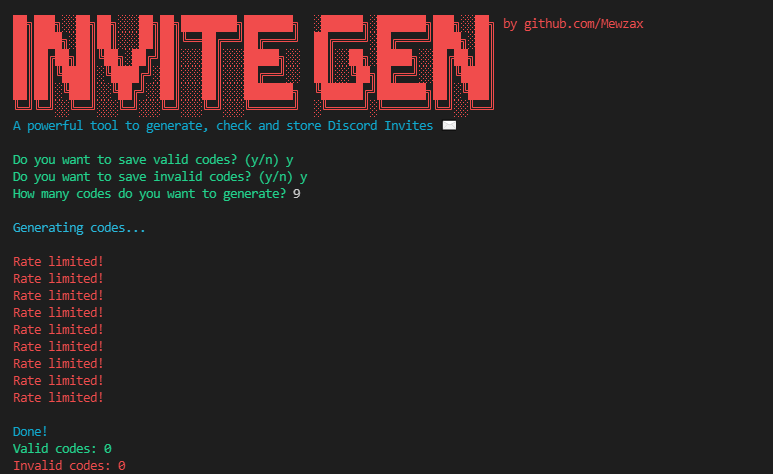
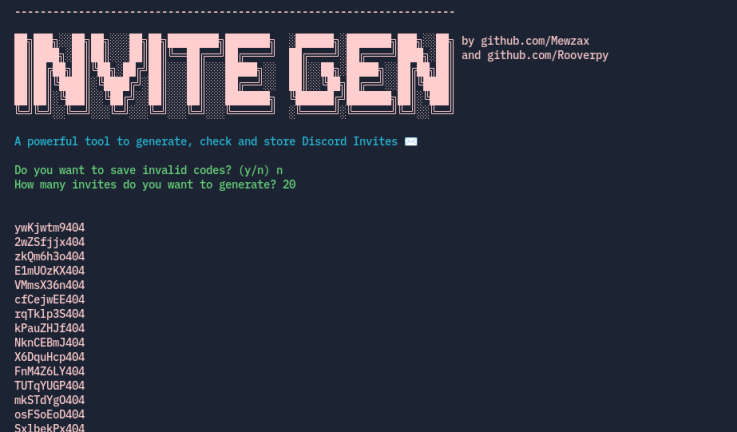
faster (thx to @rooverpy)
even if he deleted features lol

Changed region(s): [[0.0, 0.0, 0.8426, 1.0]]

diff --git a/main.py b/main.py
@@ -1,115 +1,19 @@
-import os, string, json, random, itertools, httpx, ctypes
-from colorama import init, Fore
-
-init()
-
-valid = []
-invalid = 0
-
-chars = []
-chars[:0] = string.ascii_letters + string.digits
-
-__CONFIG__ = json.load(open("./config.json"))
-__PROXIES__ = itertools.cycle(
-    open(__CONFIG__["path_proxies"], "r+").read().splitlines()
-)
-
-
-def saveCodes(code, file):
-    with open(file, "a") as f:
-        f.write('discord.gg/' + code + "\n")
-        f.close()
-
-
-def generateCode():
-    code = "".join(random.choices(chars, k=19))
-    return code
-
-
-def checkCode(code):
-    try:
-        if __CONFIG__["use_proxies"] == "True":
-            with httpx.Client(
-                proxies=f"http://{next(__PROXIES__)}",
-                timeout=__CONFIG__["proxy_timeout"],
-            ) as client:
-                response = client.get("https://discordapp.com/api/v6/invite/" + code)
-
-                if "expires_at" in str(response.content):
-                    print(Fore.LIGHTCYAN_EX + "Valid code: " + code + Fore.RESET)
-                    valid.append(code)
-                    if saveValidCodes == "y":
-                        saveCodes(code, __CONFIG__["path_valid"])
-
-                elif "Unknown Invite" in str(response.content):
-                    print(Fore.LIGHTRED_EX + "Invalid code: " + code + Fore.RESET)
-                    invalid += 1
-                    if saveInvalidCodes == "y":
-                        saveCodes(code, __CONFIG__["path_invalid"])
-
-                elif "You are being rate limited" in str(response.content):
-                    print(Fore.LIGHTRED_EX + "Rate limited!" + Fore.RESET)
-
-                else:
-                    print(Fore.LIGHTRED_EX + "Unknown error!" + Fore.RESET)
-
-        else:
-            response = httpx.get("https://discordapp.com/api/v6/invite/" + code)
-
-            if "expires_at" in str(response.content):
-                print(Fore.LIGHTGREEN_EX + "Valid code: " + code + Fore.RESET)
-                valid.append(code)
-                if saveValidCodes == "y":
-                    saveCodes(code, __CONFIG__["path_valid"])
-
-            elif "Unknown Invite" in str(response.content):
-                print(Fore.LIGHTRED_EX + "Invalid code: " + code + Fore.RESET)
-                invalid += 1
-                if saveInvalidCodes == "y":
-                    saveCodes(code, __CONFIG__["path_invalid"])
-
-            elif "You are being rate limited" in str(response.content):
-                print(Fore.LIGHTRED_EX + "Rate limited!" + Fore.RESET)
-
-            else:
-                print(Fore.LIGHTRED_EX + "Unknown error!" + Fore.RESET)
-
-    except httpx.HTTPError:
-        print(Fore.LIGHTRED_EX + "Error: Could not connect to Discord" + Fore.RESET)
-
-
-def main():
-    print(
-        Fore.LIGHTRED_EX
-        + """
-    
-██╗███╗░░██╗██╗░░░██╗██╗████████╗███████╗  ░██████╗░███████╗███╗░░██╗ by github.com/Mewzax
-██║████╗░██║██║░░░██║██║╚══██╔══╝██╔════╝  ██╔════╝░██╔════╝████╗░██║
-██║██╔██╗██║╚██╗░██╔╝██║░░░██║░░░█████╗░░  ██║░░██╗░█████╗░░██╔██╗██║
-██║██║╚████║░╚████╔╝░██║░░░██║░░░██╔══╝░░  ██║░░╚██╗██╔══╝░░██║╚████║
-██║██║░╚███║░░╚██╔╝░░██║░░░██║░░░███████╗  ╚██████╔╝███████╗██║░╚███║
-╚═╝╚═╝░░╚══╝░░░╚═╝░░░╚═╝░░░╚═╝░░░╚══════╝  ░╚═════╝░╚══════╝╚═╝░░╚══╝"""
-        + Fore.RESET
-    )
-    print(Fore.CYAN + 'A powerful tool to generate, check and store Discord Invites ✉\n' + Fore.RESET)
-    saveValidCodes = input(Fore.LIGHTGREEN_EX + "Do you want to save valid codes? (y/n) ")
-    saveInvalidCodes = input("Do you want to save invalid codes? (y/n) ")
-    codesAmount = int(input("How many codes do you want to generate? " + Fore.RESET))
-    print(Fore.LIGHTCYAN_EX + "\nGenerating codes...\n" + Fore.RESET)
-    for i in range(codesAmount):
-        code = generateCode()
-        checkCode(code)
-        if os.name == "nt":
-            ctypes.windll.kernel32.SetConsoleTitleW('Invite Generator - Valid: ' + str(len(valid)) + ' - Invalid: ' + str(invalid))
-    print(Fore.CYAN + "\nDone!" + Fore.RESET)
-    print(Fore.LIGHTGREEN_EX + "Valid codes: " + str(len(valid)) + Fore.RESET)
-    for code in valid:
-        print(Fore.LIGHTGREEN_EX + code + Fore.RESET)
-    print(Fore.LIGHTRED_EX + "Invalid codes: " + str(invalid) + Fore.RESET)
-
+#########################################################
+# .___              ________
+# |   | _______  __/  _____/  ____   ____
+# |   |/    \  \/ /   \  ____/ __ \ /    \
+# |   |   |  \   /\    \_\  \  ___/|   |  \
+# |___|___|  /\_/  \______  /\___  >___|  /
+#         \/             \/     \/     \/
+#########################################################
+import src
+import os
 
 if __name__ == "__main__":
-    os.system('cls' if os.name == 'nt' else 'clear')
+    os.system("cls" if os.name == "nt" else "clear")
     if os.name == "nt":
-        ctypes.windll.kernel32.SetConsoleTitleW('Invite Generator - by Mewzax.')
-    main()
+        os.system("title Invite Gen by Mewzax/Roover.")
+    src.start()
+    input("Press enter to exit...")
+    exit()
+#########################################################

diff --git a/src/invcheck.py b/src/invcheck.py
@@ -1,0 +1,81 @@
+import os
+import random
+import string
+from .design import coloring as C
+import asyncio
+import itertools
+import aiohttp
+
+prox = False
+valid = []
+chars = []
+chars[:0] = string.ascii_letters + string.digits
+if os.stat("proxies.txt").st_size > 0:
+    prox = True
+    global proxies
+    proxies = itertools.cycle(open("proxies.txt", "r+").read().splitlines())
+
+async def proxgen(amount):
+    async with aiohttp.ClientSession() as session:
+        for i in range(amount):
+            code = "".join(random.choices(chars, k=8))
+            check = await session.get(
+                f"https://discord.com/api/v9/invite/{code}",
+                proxy=f"https://{next(proxies)}"
+            )
+            if check.status == 200:
+                valid.append(code)
+                print(f"{C.GREEN}[=] Valid [{i+1}/{amount}]: {code}")
+            elif (
+                check.status == 429
+            ):
+                print(f"{C.BLUE}[-] Ratelimited [{i+1}/{amount}]: " + code)
+            else:
+                print(f"{C.RED}[x] Invalid Invite [{i+1}/{amount}]: " + code)
+
+
+async def gen(amount):
+    async with aiohttp.ClientSession() as session:
+        for i in range(amount):
+            code = "".join(random.choices(chars, k=8))
+            check = await session.get(
+                f"https://discordapp.com/api/v9/invite/{code}"
+            )
+            if check.status == 200:
+                valid.append(code)
+                print(f"{C.GREEN}[=] Valid [{i+1}/{amount}]: {code}")
+            elif check.status == 429:
+                print(f"{C.BLUE}[-] Ratelimited [{i+1}/{amount}]: {code}")
+            else:
+                print(f"{C.RED}[x] Invalid Invite [{i+1}/{amount}]: {code}")
+
+
+def start():
+    print(f"{C.RED}-" * 69)  # Haha funni number. (no.)
+    print(
+        C.RED
+        + """
+██╗███╗░░██╗██╗░░░██╗██╗████████╗███████╗  ░██████╗░███████╗███╗░░██╗ by github.com/Mewzax
+██║████╗░██║██║░░░██║██║╚══██╔══╝██╔════╝  ██╔════╝░██╔════╝████╗░██║
+██║██╔██╗██║╚██╗░██╔╝██║░░░██║░░░█████╗░░  ██║░░██╗░█████╗░░██╔██╗██║
+██║██║╚████║░╚████╔╝░██║░░░██║░░░██╔══╝░░  ██║░░╚██╗██╔══╝░░██║╚████║
+██║██║░╚███║░░╚██╔╝░░██║░░░██║░░░███████╗  ╚██████╔╝███████╗██║░╚███║
+╚═╝╚═╝░░╚══╝░░░╚═╝░░░╚═╝░░░╚═╝░░░╚══════╝  ░╚═════╝░╚══════╝╚═╝░░╚══╝
+		  """
+    )
+    print(C.CYAN + "A powerful tool to generate, check and store Discord Invites ✉\n")
+    while True:
+        try:
+            amount = int(input(C.GREEN + "How many invites do you want to generate? "))
+            print("\n")
+            break
+        except Exception as e:
+            print(f"~ {C.YELLOW}Input Failure | {e}")
+            pass
+    if prox:
+        asyncio.run(proxgen(amount))
+    else:
+        asyncio.run(gen(amount))
+        with open("valid.txt", "w") as v:
+            for invite in valid:
+                v.write("discord.gg/" + invite + "\n")

diff --git a/src/design.py b/src/design.py
@@ -1,0 +1,9 @@
+class coloring:
+    HEADER = '\033[95m'
+    BLUE = '\033[94m'
+    GREEN = '\033[92m'
+    YELLOW = '\033[93m'
+    RED = '\033[91m'
+    WHITE = '\033[0m'
+    BOLD = '\033[1m'
+    CYAN = '\033[96m'

diff --git a/src/__init__.py b/src/__init__.py
@@ -1,0 +1,2 @@
+from .design import coloring as C
+from .invcheck import start

diff --git a/.github/README.md b/.github/README.md
@@ -1,51 +1,52 @@
 <h1 align="center">Discord-Invite-Generator</h1>
+
 <p align="center">
 <img src="./logo.png">
 </p>
 
-<h4 align='center'>✉ A simple tool to create, check then store discord invites</h4>
+<h4 align='center'>✉ A simple tool to generate, check, and store random Discord invites.</h4>
+<h6 align='center'>Made by Mewzax, revised by <a href="https://github.com/RooverPY/">Roover#3318.</a></h6>
 
 ## Preview
+
 <img src="./preview.png">
 
 ## Features
 
-- Generate a lot of discord invites
-- Checks Invite at the same time for maximum efficiency
-- Store the invites
-- Proxies support
+- Check and generate invites.
+- Stores generated invites.
+- Proxy support to prevent ratelimiting.
 
 ## To do
 
-- [ ] Add a joiner (u'll probably get a ban lol)
+- [ ] Add a joiner (Account will likely be locked/disabled for triggering Discord anti-spam)
 
 ## Built with
 
-- [httpx](https://www.python-httpx.org)
-- [colorama](https://pypi.org/project/colorama/)
+- [aiohttp](https://docs.aiohttp.org/en/stable/)
 
 ## Requirements
 
 - [Python](https://www.python.org/downloads/)
-- Proxies (optional)
+- Https proxylist (optional).
 
 ## Installation
 
-```sh
+```t
 # Clone the repo:
 git clone https://github.com/Mewzax/Discord-Invite-Generator.git
-cd Discord-Invite-Generator
+cd to file destination.
 
 # Install packages
 pip install -r requirements.txt
 
 # Run the code
-python3 main.py
+python main.py
 ```
 
 <p align="center"> 
     <b>Informations</b><br>
-    <img alt="GitHub Repo stars" src="https://img.shields.io/github/stars/Mewzax/Discord-Invite-Generator?style=social">
-    <img alt="GitHub top language" src="https://img.shields.io/github/languages/top/Mewzax/Discord-Invite-Generator">
-    <img alt="GitHub last commit" src="https://img.shields.io/github/last-commit/Mewzax/Discord-Invite-Generator">
+    <img alt="github Repo stars" src="https://img.shields.io/github/stars/Mewzax/Discord-Invite-Generator?style=social">
+    <img alt="github top language" src="https://img.shields.io/github/languages/top/Mewzax/Discord-Invite-Generator">
+    <img alt="github last commit" src="https://img.shields.io/github/last-commit/Mewzax/Discord-Invite-Generator">
 </p>
